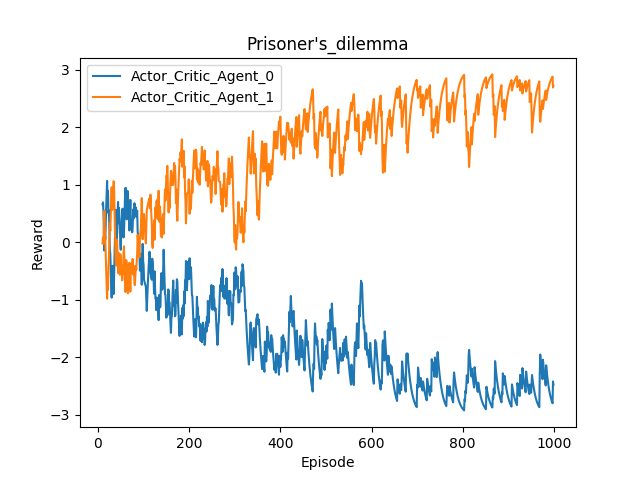
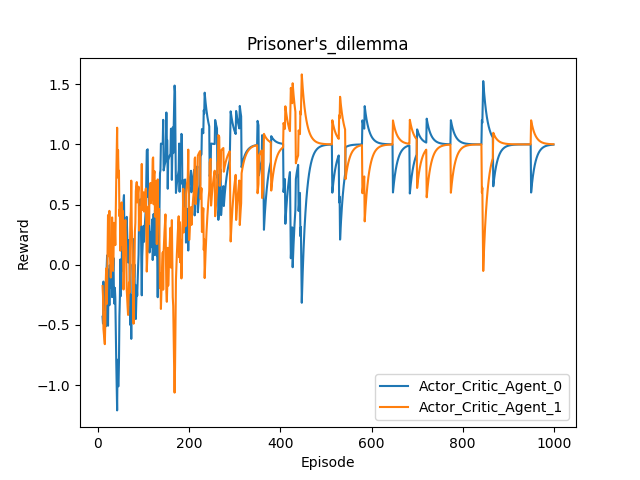
Policing all agents rather than just one

diff --git a/Agents.py b/Agents.py
@@ -1,8 +1,8 @@
 import numpy as np
 import tensorflow as tf
 
-np.random.seed(4)
-tf.set_random_seed(4)
+np.random.seed(2)
+tf.set_random_seed(2)
 
 from enum import Enum, auto
 class Critic_Variant(Enum):
@@ -173,18 +173,31 @@ class Critic(object):
         return td_error
 
 class Policing_Agent(Agent):
+    def __init__(self, env, policed_agents, learning_rate=0.01, n_units = 4, gamma = 0.95):
+        super().__init__(env, learning_rate, gamma)     
+        self.policing_subagents = []
+        for policed_agent in policed_agents:
+            self.policing_subagents.append(Policing_Sub_Agent(env,policed_agent,learning_rate,n_units,gamma))
+
+    def learn(self, s, a_players):
+        for (a,policing_subagent) in zip(a_players,self.policing_subagents):
+            policing_subagent.learn(s,a)
+
+    def choose_action(self, s, player_actions):
+        return [policing_subagent.choose_action(s,a) for (a,policing_subagent) in zip(player_actions,self.policing_subagents)]
+
+class Policing_Sub_Agent(Agent):
     def __init__(self, env, policed_agent, learning_rate=0.01, n_units = 4, gamma = 0.95):
         super().__init__(env, learning_rate, gamma)
         self.n_policing_actions = 2
         self.n_features = env.n_features + env.n_actions * env.n_players
+        self.policed_agent = policed_agent
 
-        self.s = tf.placeholder(tf.float32, [1, env.n_features], "state")
-        #self.pi1_action_probs = tf.placeholder(tf.float32, [1, env.n_actions], "player1_action_probs")
-        #self.a = tf.placeholder(tf.int32, None, "policing_action")
-        self.a_player = tf.placeholder(tf.float32, None, "player1_action")
+        self.s = tf.placeholder(tf.float32, [1, env.n_features], "state")   
+        self.a_player = tf.placeholder(tf.float32, None, "player_action")
         self.inputs = tf.concat([self.s,tf.reshape(self.a_player,(1,1))],1)
 
-        with tf.variable_scope('Policy_p_Network'):
+        with tf.variable_scope('Policy_p_Network_Agent_'+str(policed_agent.agent_idx)):
             # l1 = tf.layers.dense(
             #     inputs=self.inputs,
             #     units=n_units,    # number of hidden units
@@ -205,7 +218,8 @@ class Policing_Agent(Agent):
 
         with tf.variable_scope('Vp'):
             # Vp is trivial to calculate in this special case
-            self.vp = 4 * (tf.argmax(self.action_layer,axis=1)-1)
+            self.vp = -2 * (1 + tf.sign(self.action_layer[0,0]-self.action_layer[0,1]))
+            #4 * (tf.argmax(self.action_layer,axis=1)-1)
             #self.v2p = -self.vp
 
         with tf.variable_scope('V_total'):
@@ -234,7 +248,7 @@ class Policing_Agent(Agent):
     def learn(self, s, a_player):
         #player_action_probs = self.agent_list[0].calc_action_probs(s)
         s = s[np.newaxis,:]
-        feed_dict = {self.s: s, self.a_player: a_player, self.agent_list[0].actor.s: s}
+        feed_dict = {self.s: s, self.a_player: a_player, self.policed_agent.actor.s: s}
         self.sess.run([self.train_op], feed_dict)
         #feed_dict = {self.a_player: a_player}
         #print(self.sess.run([self.v], feed_dict))

diff --git a/main.py b/main.py
@@ -28,14 +28,13 @@ def run_game(N_EPISODES, players, policing_agent = None):
             s_, rewards, done = env.step(actions)
 
             if policing_agent is not None:
-                assert(len(players) == 2) #temporary
-                policing_action = policing_agent.choose_action(s,actions[0])
-                policing_rs = [4 * (policing_action-1), 0]
+                a_p_list = policing_agent.choose_action(s,actions)
+                policing_rs = [4 * (a_p-1) for a_p in a_p_list]
                 rewards = [ sum(r) for r in zip(rewards,policing_rs)]
                 print('Rewards: ', rewards)
                 cum_policing_rs = [sum(r) for r in zip(cum_policing_rs, policing_rs)]
                 # Training policing agent
-                policing_agent.learn(s,actions[0])
+                policing_agent.learn(s,actions)
             # print('Actions:',actions)
             # print('State after:',s_)
             # print('Rewards:',rewards)
@@ -107,7 +106,7 @@ if __name__ == "__main__":
 
     env = Prisoners_Dilemma()    
     agents = create_population(env,2)
-    policing_agent = Policing_Agent(env,agents[0])
+    policing_agent = Policing_Agent(env,agents)
 
     avg_rewards_per_round,avg_policing_rewards_per_round = run_game(N_EPISODES,agents,policing_agent)
     plot_results(avg_rewards_per_round,[str(agent) for agent in agents],env.__str__(), exp_factor=0.1)
